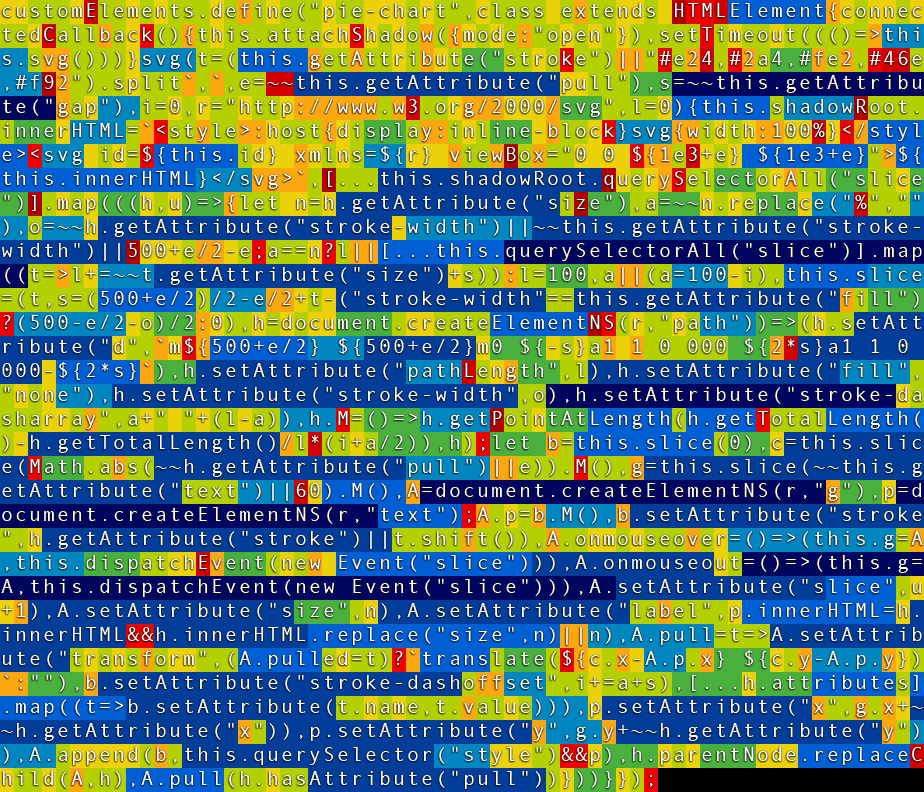
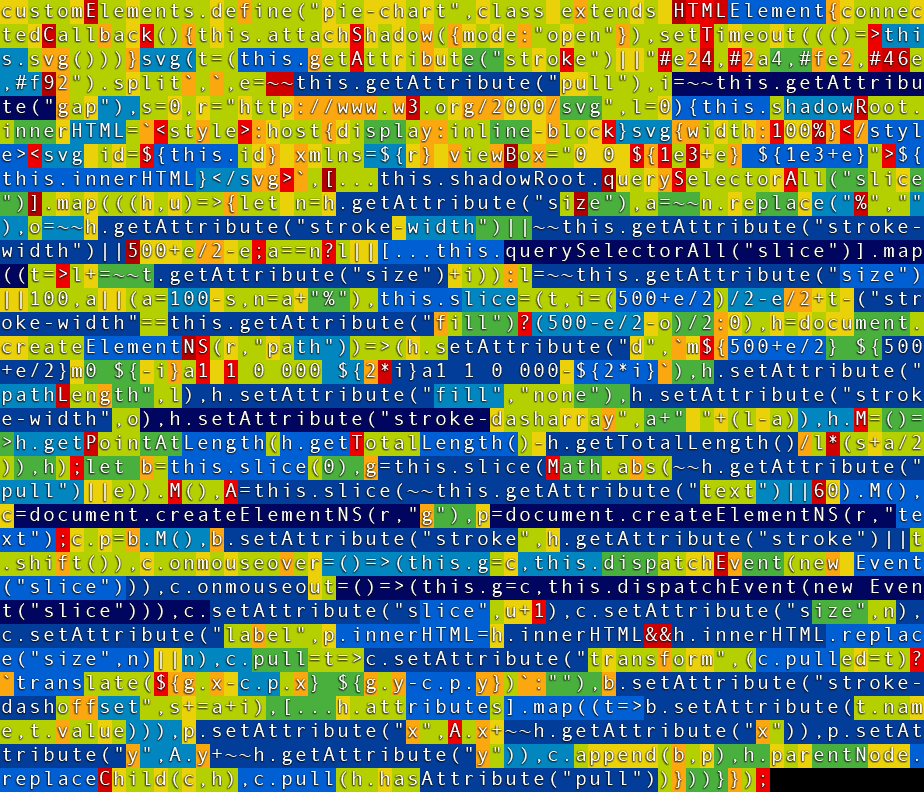
fix build

diff --git a/elements.pie-meister.min.js b/elements.pie-meister.min.js
@@ -1,1 +1,1 @@
-customElements.define("pie-chart",class extends HTMLElement{connectedCallback(){this.attachShadow({mode:"open"}),setTimeout((()=>this.svg()))}svg(t=(this.getAttribute("stroke")||"#e24,#2a4,#fe2,#46e,#f92").split`,`,e=~~this.getAttribute("pull"),s=~~this.getAttribute("gap"),i=0,r="http://www.w3.org/2000/svg",l=0){this.shadowRoot.innerHTML=`<style>:host{display:inline-block}svg{width:100%}</style><svg id=${this.id} xmlns=${r} viewBox="0 0 ${1e3+e} ${1e3+e}">${this.innerHTML}</svg>`,[...this.shadowRoot.querySelectorAll("slice")].map(((h,u)=>{let n=h.getAttribute("size"),a=~~n.replace("%",""),o=~~h.getAttribute("stroke-width")||~~this.getAttribute("stroke-width")||500+e/2-e;a==n?l||[...this.querySelectorAll("slice")].map((t=>l+=~~t.getAttribute("size")+s)):l=100,a||(a=100-i),this.slice=(t,s=(500+e/2)/2-e/2+t-("stroke-width"==this.getAttribute("fill")?(500-e/2-o)/2:0),h=document.createElementNS(r,"path"))=>(h.setAttribute("d",`m${500+e/2} ${500+e/2}m0 ${-s}a1 1 0 000 ${2*s}a1 1 0 000-${2*s}`),h.setAttribute("pathLength",l),h.setAttribute("fill","none"),h.setAttribute("stroke-width",o),h.setAttribute("stroke-dasharray",a+" "+(l-a)),h.M=()=>h.getPointAtLength(h.getTotalLength()-h.getTotalLength()/l*(i+a/2)),h);let b=this.slice(0),c=this.slice(Math.abs(~~h.getAttribute("pull")||e)).M(),g=this.slice(~~this.getAttribute("text")||60).M(),A=document.createElementNS(r,"g"),p=document.createElementNS(r,"text");A.p=b.M(),b.setAttribute("stroke",h.getAttribute("stroke")||t.shift()),A.onmouseover=()=>(this.g=A,this.dispatchEvent(new Event("slice"))),A.onmouseout=()=>(this.g=A,this.dispatchEvent(new Event("slice"))),A.setAttribute("slice",u+1),A.setAttribute("size",n),A.setAttribute("label",p.innerHTML=h.innerHTML&&h.innerHTML.replace("size",n)||n),A.pull=t=>A.setAttribute("transform",(A.pulled=t)?`translate(${c.x-A.p.x} ${c.y-A.p.y})`:""),b.setAttribute("stroke-dashoffset",i+=a+s),[...h.attributes].map((t=>b.setAttribute(t.name,t.value))),p.setAttribute("x",g.x+~~h.getAttribute("x")),p.setAttribute("y",g.y+~~h.getAttribute("y")),A.append(b,this.querySelector("style")&&p),h.parentNode.replaceChild(A,h),A.pull(h.hasAttribute("pull"))}))}});
+customElements.define("pie-chart",class extends HTMLElement{connectedCallback(){this.attachShadow({mode:"open"}),setTimeout((()=>this.svg()))}svg(t=(this.getAttribute("stroke")||"#e24,#2a4,#fe2,#46e,#f92").split`,`,e=~~this.getAttribute("pull"),i=~~this.getAttribute("gap"),s=0,r="http://www.w3.org/2000/svg",l=0){this.shadowRoot.innerHTML=`<style>:host{display:inline-block}svg{width:100%}</style><svg id=${this.id} xmlns=${r} viewBox="0 0 ${1e3+e} ${1e3+e}">${this.innerHTML}</svg>`,[...this.shadowRoot.querySelectorAll("slice")].map(((h,u)=>{let n=h.getAttribute("size"),a=~~n.replace("%",""),o=~~h.getAttribute("stroke-width")||~~this.getAttribute("stroke-width")||500+e/2-e;a==n?l||[...this.querySelectorAll("slice")].map((t=>l+=~~t.getAttribute("size")+i)):l=~~this.getAttribute("size")||100,a||(a=100-s,n=a+"%"),this.slice=(t,i=(500+e/2)/2-e/2+t-("stroke-width"==this.getAttribute("fill")?(500-e/2-o)/2:0),h=document.createElementNS(r,"path"))=>(h.setAttribute("d",`m${500+e/2} ${500+e/2}m0 ${-i}a1 1 0 000 ${2*i}a1 1 0 000-${2*i}`),h.setAttribute("pathLength",l),h.setAttribute("fill","none"),h.setAttribute("stroke-width",o),h.setAttribute("stroke-dasharray",a+" "+(l-a)),h.M=()=>h.getPointAtLength(h.getTotalLength()-h.getTotalLength()/l*(s+a/2)),h);let b=this.slice(0),g=this.slice(Math.abs(~~h.getAttribute("pull")||e)).M(),A=this.slice(~~this.getAttribute("text")||60).M(),c=document.createElementNS(r,"g"),p=document.createElementNS(r,"text");c.p=b.M(),b.setAttribute("stroke",h.getAttribute("stroke")||t.shift()),c.onmouseover=()=>(this.g=c,this.dispatchEvent(new Event("slice"))),c.onmouseout=()=>(this.g=c,this.dispatchEvent(new Event("slice"))),c.setAttribute("slice",u+1),c.setAttribute("size",n),c.setAttribute("label",p.innerHTML=h.innerHTML&&h.innerHTML.replace("size",n)||n),c.pull=t=>c.setAttribute("transform",(c.pulled=t)?`translate(${g.x-c.p.x} ${g.y-c.p.y})`:""),b.setAttribute("stroke-dashoffset",s+=a+i),[...h.attributes].map((t=>b.setAttribute(t.name,t.value))),p.setAttribute("x",A.x+~~h.getAttribute("x")),p.setAttribute("y",A.y+~~h.getAttribute("y")),c.append(b,p),h.parentNode.replaceChild(c,h),c.pull(h.hasAttribute("pull"))}))}});

diff --git a/index.html b/index.html
@@ -102,8 +102,7 @@
           <b style="color:firebrick">Work in progress.. getting ready for 3.14 launch, please contact danny@engelman.nl for questions and suggestions</b>
           <h1><meister-name></meister-name></h1>
           <p>
-            My <a href="https://en.wikipedia.org/wiki/TRS-80">first computer</a> learned me to program in 4 kB
-            memory.<br />I tried to create a &lt;pie-chart> Web Component in a maximum of <b>3.14</b> kB... and failed
+            My <a href="https://en.wikipedia.org/wiki/TRS-80">first computer</a> learned me to program in Z80 Assembly Language and 4 kB memory.</p><p>I tried to create a &lt;pie-chart> Web Component in a maximum of <b>3.14</b> kB... and failed
           </p>
           <chart-libraries-table></chart-libraries-table>
         </div>
@@ -169,9 +168,7 @@
       </pie-demo>
       <pie-demo>
         <pie-description
-          >To 'pull' a slice, specify the distance you want to pull, and which slice to pull<br /><br />The SVG has a
-          1000 x 1000 units viewBox<br /><br />
-          A <attr-setting>pull="200"</attr-setting> creates a 1200x1200 viewBox so pulled slices are not cut
+          >Specify the distance with <attr-setting>pull="200"</attr-setting> and which slice to pull<br /><br />The SVG has a default 1000 x 1000 units viewBox<br><attr-setting>pull="200"</attr-setting> creates a 1200x1200 viewBox so pulled slices are not cut
           off</pie-description
         >
         <pie-chart pull="200">
@@ -183,8 +180,9 @@
       <pie-demo>
         <pie-description
           >Format a single pie with <b>inline</b> CSS (styling SVG elements)<br /><br />By default labels are positioned
-          60 SVG units <b>outward</b> from the slice center point<br /><br />Labels are only shown when a
-          <attr-setting>&lt;style></attr-setting> is defined</pie-description
+          60 SVG units <b>outward</b> from the slice center point<br />
+          <p hidden>Labels are only shown when a
+          <attr-setting>&lt;style></attr-setting> is defined</p></pie-description
         >
         <pie-chart>
           <style>
@@ -200,11 +198,11 @@
       </pie-demo>
       <pie-demo>
         <pie-description
-          >Add any SVG you want<br /><br />And I almost forgot; <attr-setting>&lt<slice size="0"></slice></attr-setting> autocompletes to a
+          >Add any SVG you want<br /><br />And I almost forgot; <br><attr-setting>&lt;slice size="0"></slice></attr-setting> autocompletes to a
           full 100% pie</pie-description
         >
         <pie-chart pull="30">
-          <circle r="505" cx="50%" cy="50%" fill="teal"></circle>
+          <circle r="505" cx="50%" cy="50%" fill="green"></circle>
 
           <slice size="10%"></slice>
           <slice size="20%"></slice>
@@ -212,25 +210,24 @@
 
           <circle r="100" cx="50%" cy="50%" fill="darkgreen"></circle>
           
-          <slice size="0" stroke="grey">Not 100% yet!</slice>
+          <slice size="0" stroke="grey">size to go!</slice>
 
-          <text x="50%" y="50%" fill="white">Pie Meister</text>
+          <text id="title" x="50%" y="50%" fill="white">Pie Meister</text>
           <style>
             text {
-              font-size: 8em;
-              text-anchor: middle;
-            }
-            [slice] text {
               font-size: 4em;
               text-anchor: middle;
+            }
+            #title {
+              font-size: 8em;
             }
           </style>
         </pie-chart>
       </pie-demo>
       <pie-demo>
         <pie-description
-          >For a Donut chart, change the <attr-setting>(default) stroke-width="500"</attr-setting> to a lower
-          value</pie-description
+          >Set the <attr-setting>(default) stroke-width="500"</attr-setting> to a <b>lower</b>
+          value to create a Donut chart</pie-description
         >
         <pie-chart stroke-width="200">
           <slice size="10"></slice>

diff --git a/demo_assets/elements.pie-meister.site-elements.js b/demo_assets/elements.pie-meister.site-elements.js
@@ -149,12 +149,14 @@ customElements.define(
         },
         { name: "D3.js", uri: "http://bl.ocks.org/dbuezas/9306799", size: "64 kB" },
         { name: "ChartJS", uri: "https://www.chartjs.org/samples/latest/charts/pie.html", size: "51 kB" },
+        { name: "React Minimal Pie Chart", uri: "https://bundlephobia.com/result?p=react-minimal-pie-chart@8.1.0", size: "2.1 kB",
+        comment:"+ React itself ofcourse!" },
         {
           name: "<meister-name></meister-name>",
           uri: "https://pie-meister.github.io",
           size: "<content-length src='elements.pie-meister.min.js'></content-length>",
         },
-      ].map((c) => `<tr><td><a href="${c.uri}">${c.name}</a></td><td align=right>${c.size}</td></tr>`).join``;
+      ].map((c) => `<tr><td><a href="${c.uri}">${c.name}</a></td><td align=right>${c.size}</td><td>${c.comment||""}</td></tr>`).join``;
       this.innerHTML =
         `<table>
         <thead>
